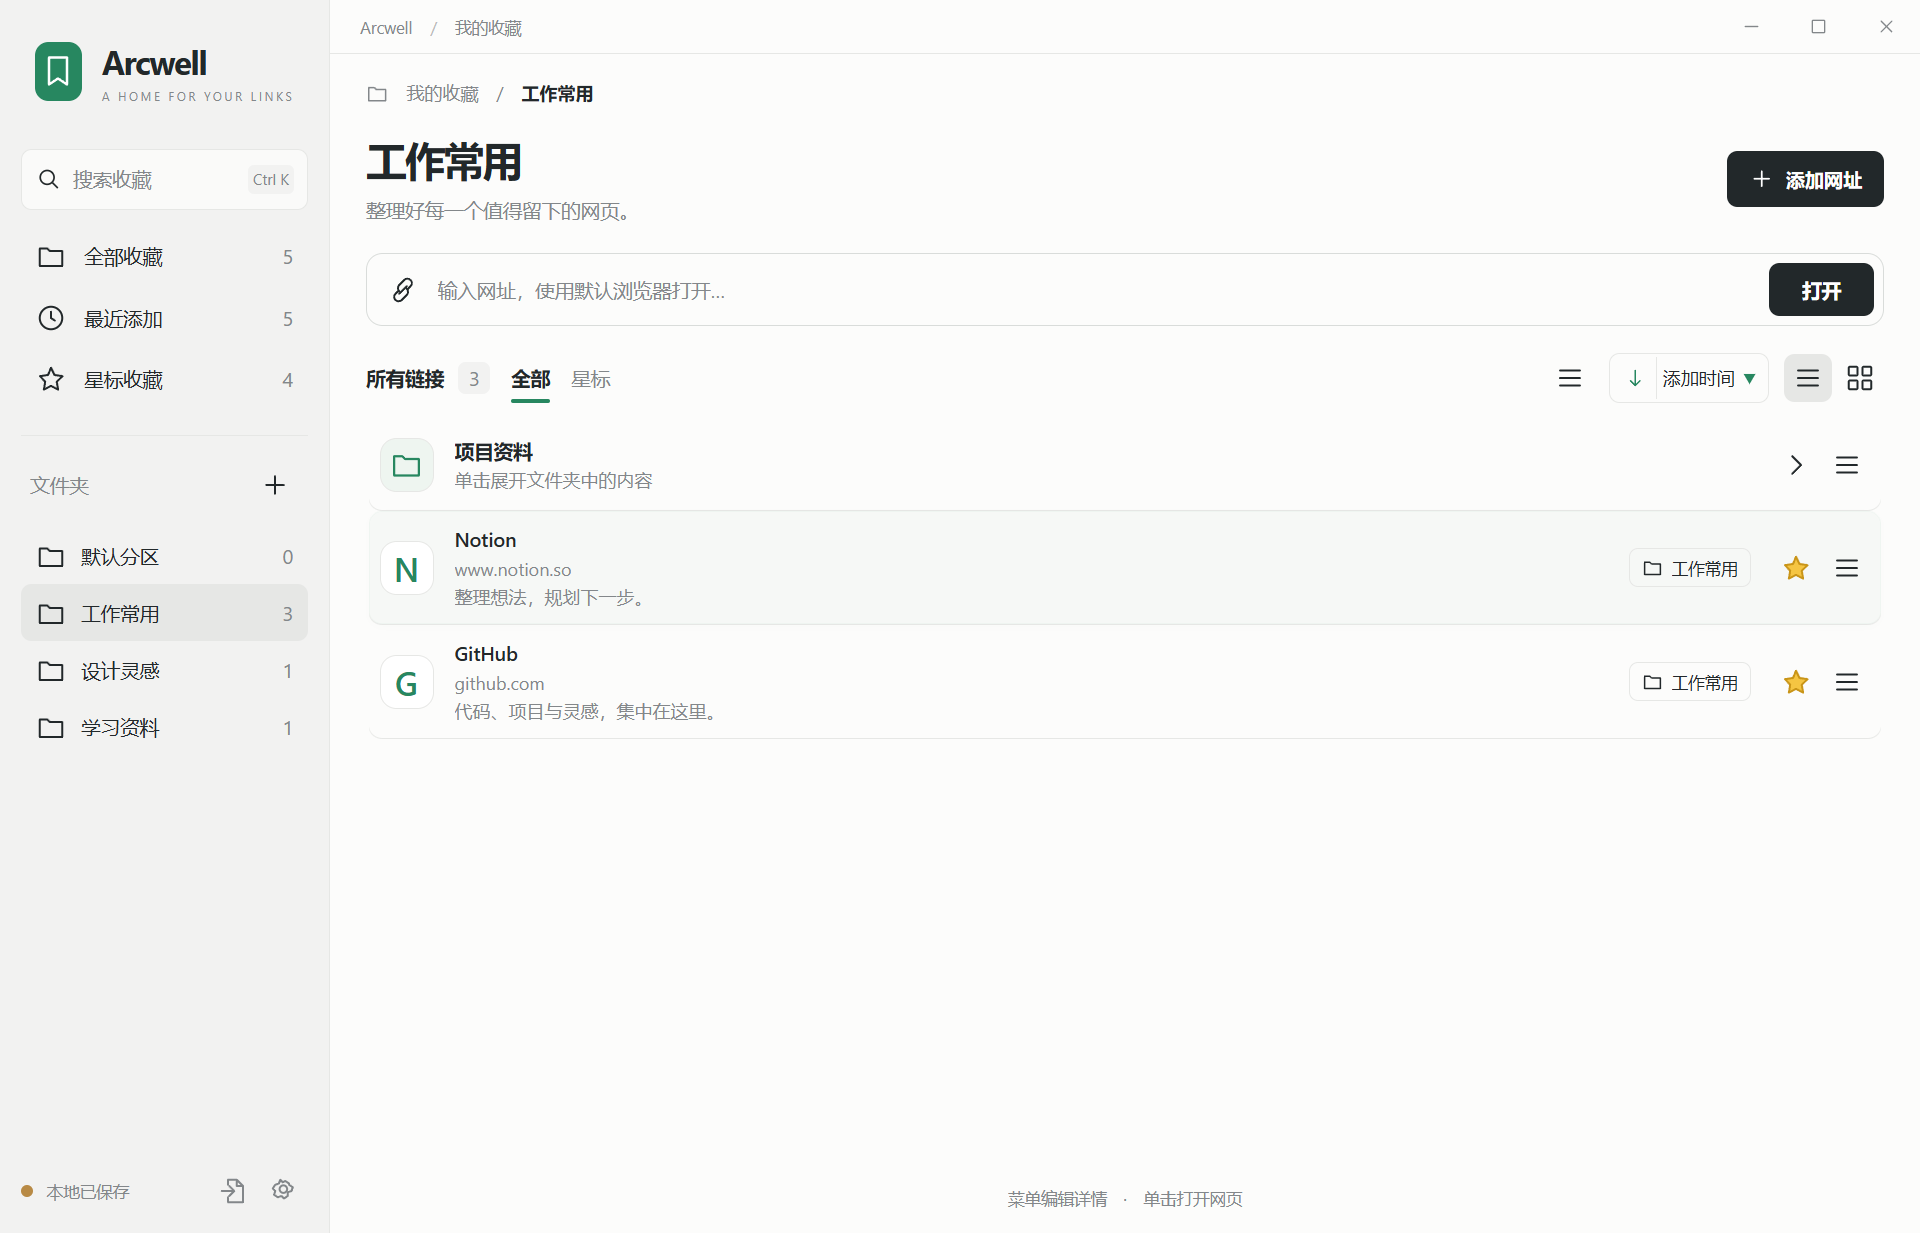
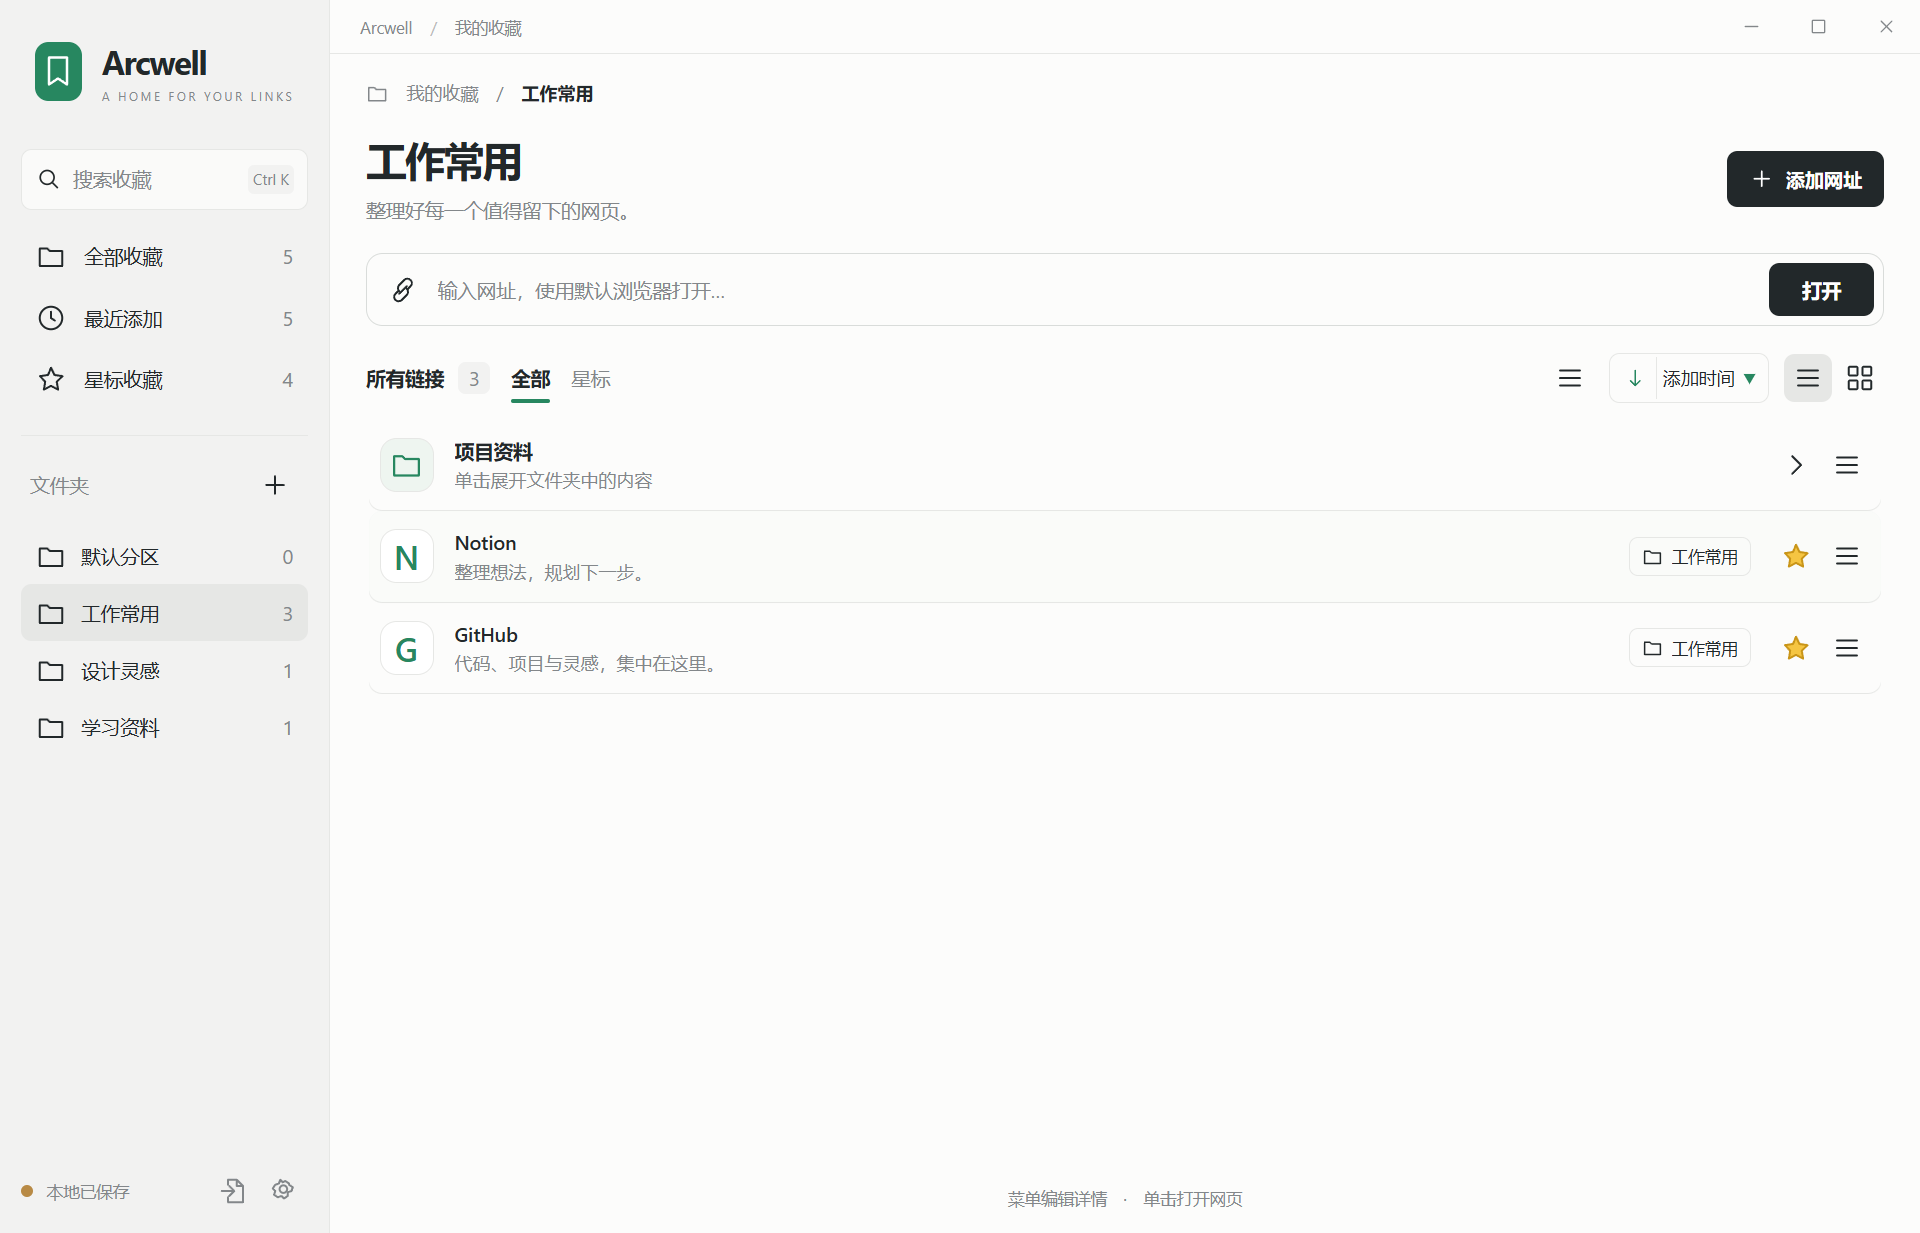
Match link card density to folders and share metadata hover hints

Changed region(s): [[0.1875, 0.4315, 0.375, 0.5856], [0.875, 0.5239, 0.9688, 0.5547], [0.875, 0.4315, 0.9688, 0.4623]]

diff --git a/src/ui/app.js b/src/ui/app.js
@@ -336,6 +336,8 @@ function bookmarkRow(bookmark) {
     `collection-row bookmark-row ${state.selected === bookmark.id ? 'selected' : ''}`,
   );
   row.dataset.id = bookmark.id;
+  row.dataset.collectionHint = bookmark.url;
+  row.setAttribute('aria-description', bookmark.url);
   row.tabIndex = 0;
   row.setAttribute('aria-label', `${bookmark.title}，单击打开网页，菜单编辑详情`);
   row.onclick = (event) => {
@@ -354,7 +356,7 @@ function bookmarkRow(bookmark) {
   row.append(siteIcon(bookmark));
   const copy = element('div', 'bookmark-copy');
   const title = button(bookmark.title, null, 'bookmark-title');
-  title.title = '单击使用默认浏览器打开，通过菜单编辑详情';
+  title.setAttribute('aria-description', bookmark.url);
   title.innerHTML = '';
   title.append(element('span', '', bookmark.title));
   title.onclick = (event) => {
@@ -363,7 +365,6 @@ function bookmarkRow(bookmark) {
   };
   copy.append(
     title,
-    element('span', 'bookmark-domain', new URL(bookmark.url).hostname),
     element('p', 'bookmark-note', bookmark.note || '通过菜单编辑详情，添加你的备注'),
   );
   row.append(copy);
@@ -389,8 +390,8 @@ function bookmarkRow(bookmark) {
   return row;
 }
 // One hint serves the whole collection; rerenders cannot leave per-card timers behind.
-const folderHint = (() => {
-  const hint = $('folder-hint');
+const collectionHint = (() => {
+  const hint = $('collection-hint');
   const list = $('bookmark-list');
   let card = null;
   let timer;
@@ -412,7 +413,7 @@ const folderHint = (() => {
     if (event.pointerType !== 'mouse') return;
     x = event.clientX;
     y = event.clientY;
-    const candidate = event.target.closest('.folder-card');
+    const candidate = event.target.closest('.collection-row');
     if (!candidate || event.target.closest('.icon-button')) return hide();
     if (card === candidate) {
       if (!hint.hidden) position();
@@ -424,8 +425,8 @@ const folderHint = (() => {
       if (!card?.isConnected || $('modal').open || !$('context-menu').hidden) return hide();
       const name = card.querySelector('.folder-title > span');
       hint.textContent =
-        (name.scrollWidth > name.clientWidth ? name.textContent + '\n' : '') +
-        card.dataset.folderSummary;
+        (name && name.scrollWidth > name.clientWidth ? name.textContent + '\n' : '') +
+        card.dataset.collectionHint;
       hint.hidden = false;
       position();
     }, 400);
@@ -454,7 +455,7 @@ function folderGroup(entry, view, depth = 0) {
   const childCount = view.children(folder.id).folders.length;
   const count = view.counts.get(folder.id) || 0;
   const summary = childCount + ' 个文件夹 · ' + count + ' 个链接';
-  heading.dataset.folderSummary = summary;
+  heading.dataset.collectionHint = summary;
   heading.setAttribute('aria-description', summary);
   title.setAttribute('aria-description', summary);
   copy.append(title, element('p', 'bookmark-note', '单击展开，查看下一级内容'));
@@ -543,7 +544,7 @@ function appendCollection(container, items, view, depth = 0) {
     );
 }
 function renderList(view = currentCollection()) {
-  folderHint.hide();
+  collectionHint.hide();
   const list = $('bookmark-list');
   const scrollTop = list.scrollTop;
   list.classList.toggle('grid', state.view === 'grid');

diff --git a/src/ui/styles.css b/src/ui/styles.css
@@ -19,8 +19,8 @@
   --row-ease: cubic-bezier(0.2, 0.7, 0.2, 1);
   --folder-inset: #fff9f1;
   --folder-inset-line: #ead9c3;
-  /* Two-line folder cards occupy 80% of the previous 76px list row. */
-  --folder-row-height: 61px;
+  /* Two-line collection cards occupy 80% of the previous 76px list row. */
+  --collection-row-height: 61px;
   /* Inspector spacing scales with window height, reserving breathing room below. */
   --detail-gap: 10px;
   --profile-cover-height: 48px;
@@ -556,6 +556,7 @@ main {
   gap: 14px;
   border-bottom: 1px solid var(--line);
   padding: 10px 7px;
+  min-height: var(--collection-row-height);
   position: relative;
 }
 .collection-row.selected {
@@ -600,22 +601,13 @@ main {
   text-overflow: ellipsis;
   white-space: nowrap;
 }
-.bookmark-domain {
-  display: block;
-  color: var(--muted);
-  font-size: var(--caption);
-  margin: 3px 0;
-  overflow: hidden;
-  text-overflow: ellipsis;
-  white-space: nowrap;
-}
 .bookmark-note {
   font-size: var(--caption);
   color: var(--muted);
   white-space: nowrap;
   text-overflow: ellipsis;
   overflow: hidden;
-  margin: 0;
+  margin: 3px 0 0;
   min-height: 16px;
 }
 .folder-chip {
@@ -892,8 +884,8 @@ main {
   border-radius: 11px;
   flex-wrap: wrap;
   align-items: flex-start;
-  padding: 15px;
-  gap: 11px;
+  padding: 12px;
+  gap: 8px;
 }
 .grid .bookmark-copy {
   flex-basis: calc(100% - 65px);
@@ -1239,12 +1231,6 @@ select option:focus-visible {
 .folder-group {
   min-width: 0;
 }
-.folder-card {
-  min-height: var(--folder-row-height);
-}
-.folder-card .bookmark-note {
-  margin-top: 3px;
-}
 .folder-icon {
   background: var(--selection);
 }
@@ -1293,7 +1279,7 @@ select option:focus-visible {
 :where(.folder-contents > .folder-group) > .folder-card {
   background-color: var(--canvas);
 }
-.folder-hint {
+.collection-hint {
   position: fixed;
   z-index: 80;
   pointer-events: none;
@@ -1307,6 +1293,10 @@ select option:focus-visible {
   line-height: 1.45;
   white-space: pre-line;
   overflow-wrap: anywhere;
+  display: -webkit-box;
+  -webkit-box-orient: vertical;
+  -webkit-line-clamp: 4;
+  overflow: hidden;
   box-shadow: 0 3px 12px #49351b0c;
 }
 .folder-group.expanding > .folder-reveal > .folder-clip > .folder-contents {

diff --git a/src/ui/index.html b/src/ui/index.html
@@ -142,7 +142,7 @@
     </dialog>
     <div id="context-menu" class="context-menu" hidden></div>
     <div id="toast" role="status" class="toast" hidden></div>
-    <div id="folder-hint" class="folder-hint" role="tooltip" hidden></div>
+    <div id="collection-hint" class="collection-hint" role="tooltip" hidden></div>
     <script src="../folders.js"></script>
     <script src="../collection-view.js"></script>
     <script src="app.js"></script>

diff --git a/README.md b/README.md
@@ -3,11 +3,11 @@
 <p align="center"><img src="assets/icon.svg" width="64" alt="Arcwell" /></p>
 <p align="center"><strong>A quiet home for your bookmarks.</strong><br />把常用网站、工作资料和灵感网页，整理成自己的桌面收藏库。</p>
 <p align="center">
-<a href="https://github.com/Tkxyz1122/Arcwell/releases/download/v0.6.2/Arcwell-0.6.2-Setup.exe"><img src="docs/images/download-setup.svg?v=compact" alt="下载安装版" /></a>
+<a href="https://github.com/Tkxyz1122/Arcwell/releases/download/v0.6.3/Arcwell-0.6.3-Setup.exe"><img src="docs/images/download-setup.svg?v=compact" alt="下载安装版" /></a>
 &nbsp;
-<a href="https://github.com/Tkxyz1122/Arcwell/releases/download/v0.6.2/Arcwell-0.6.2-Portable.zip"><img src="docs/images/download-portable.svg?v=compact" alt="下载便携版 ZIP" /></a>
+<a href="https://github.com/Tkxyz1122/Arcwell/releases/download/v0.6.3/Arcwell-0.6.3-Portable.zip"><img src="docs/images/download-portable.svg?v=compact" alt="下载便携版 ZIP" /></a>
 </p>
-<p align="center">Windows 11 · x64 · 当前版本 0.6.2</p>
+<p align="center">Windows 11 · x64 · 当前版本 0.6.3</p>
 
 ## Arcwell 是什么
 
@@ -38,7 +38,7 @@ Arcwell 是一款本地优先的 Windows 桌面网页收藏管理工具。你可
 
 ### 安装版（推荐）
 
-[下载安装程序 · Arcwell 0.6.2 Setup.exe](https://github.com/Tkxyz1122/Arcwell/releases/download/v0.6.2/Arcwell-0.6.2-Setup.exe)
+[下载安装程序 · Arcwell 0.6.3 Setup.exe](https://github.com/Tkxyz1122/Arcwell/releases/download/v0.6.3/Arcwell-0.6.3-Setup.exe)
 
 下载的是 **EXE 安装程序，无需手动解压**。双击后按向导选择位置并完成安装。程序会放入独立的 Arcwell 文件夹，避免文件散落在目标目录。
 
@@ -46,7 +46,7 @@ Arcwell 是一款本地优先的 Windows 桌面网页收藏管理工具。你可
 
 ### 便携版（可选）
 
-[下载便携版 · Arcwell 0.6.2 Portable.zip](https://github.com/Tkxyz1122/Arcwell/releases/download/v0.6.2/Arcwell-0.6.2-Portable.zip)
+[下载便携版 · Arcwell 0.6.3 Portable.zip](https://github.com/Tkxyz1122/Arcwell/releases/download/v0.6.3/Arcwell-0.6.3-Portable.zip)
 
 解压后打开其中的 **Arcwell** 文件夹，双击 **Arcwell.exe**。请保留完整文件夹，移动程序时一起移动。
 
@@ -62,7 +62,7 @@ Arcwell 是一款本地优先的 Windows 桌面网页收藏管理工具。你可
 4. **补充信息**：点击收藏右侧三横线菜单或右键菜单，选择“编辑详情”，修改名称、网址、所属文件夹和备注，完成后保存。
 5. **设置第二份备份**：点击左下角齿轮，在“自动 HTML 备份”中选择自定义备份目录。
 
-左栏只显示最外层目录和默认分区。中央列表中，当前层级的文件夹始终排在链接前面；展开后先显示它的子文件夹，再显示直属链接。文件夹与链接共用卡片布局，文件夹卡片高度较上一版缩小约 20%，文件夹 / 链接数量改为鼠标停留后的轻量提示；展开区用偏白的浅杏色背景、层级边线和轻微缩进区分归属。列表和网格视图均支持嵌套展开，默认浏览时不会把子目录的链接重复铺到外层。
+左栏只显示最外层目录和默认分区。中央列表中，当前层级的文件夹始终排在链接前面；展开后先显示它的子文件夹，再显示直属链接。文件夹与链接共用卡片布局，文件夹与链接卡片均使用紧凑的两行布局，列表高度约为原来的 80%；文件夹数量和链接的详细网址统一改为鼠标停留后的轻量提示；展开区用偏白的浅杏色背景、层级边线和轻微缩进区分归属。列表和网格视图均支持嵌套展开，默认浏览时不会把子目录的链接重复铺到外层。
 
 单击文件夹卡片、标题或展开箭头均可展开 / 收起；键盘可用 Enter、空格及卡片上的左右方向键操作。展开带柔和回弹，系统启用“减少动态效果”时会自动减少动画。文件夹菜单支持在当前目录添加网址、新建子目录、重命名与移除。
 
@@ -136,7 +136,7 @@ Arcwell 在保存收藏修改后，同步更新两份固定名称的 **网址备
 
 首次从旧版升级，或无法使用应用内更新时，可手动下载更新程序：
 
-[下载 Arcwell 0.6.2 更新程序 · Update.exe](https://github.com/Tkxyz1122/Arcwell/releases/download/v0.6.2/Arcwell-0.6.2-Update.exe)
+[下载 Arcwell 0.6.3 更新程序 · Update.exe](https://github.com/Tkxyz1122/Arcwell/releases/download/v0.6.3/Arcwell-0.6.3-Update.exe)
 
 先保存正在编辑的内容，再运行更新程序。程序会自动使用原安装位置，后台更新后重新打开 Arcwell 并显示结果，**无需先卸载旧版或重新选择目录**。便携版可将更新程序放到 Arcwell.exe 所在文件夹后运行。找不到原程序时会停止，不向新的默认位置安装。后续可继续通过应用内“检查更新”更新。
 
@@ -184,7 +184,7 @@ npm run build
 
 技术栈为 Electron、原生 HTML / CSS / JavaScript、htmlparser2 与 electron-builder。渲染器使用沙箱，文件保存、导入、备份、默认浏览器调用与更新下载由主进程负责。代码按界面、业务规则、存储、备份、图标和更新模块拆分。
 
-`npm run build` 生成安装程序、更新程序及便携 ZIP，产物位于 `release/0.6.2`。更详细的开发结构、数据恢复和发布流程见：
+`npm run build` 生成安装程序、更新程序及便携 ZIP，产物位于 `release/0.6.3`。更详细的开发结构、数据恢复和发布流程见：
 
 - [开发与数据说明](docs/DEVELOPMENT.md)
 - [更新与发布](docs/UPDATING.md)

diff --git a/docs/release-notes.md b/docs/release-notes.md
@@ -1,5 +1,5 @@
 <p>
-<a href="https://github.com/Tkxyz1122/Arcwell/releases/download/v0.6.2/Arcwell-0.6.2-Setup.exe">下载安装版</a> · <a href="https://github.com/Tkxyz1122/Arcwell/releases/download/v0.6.2/Arcwell-0.6.2-Portable.zip">下载便携版 ZIP</a>
+<a href="https://github.com/Tkxyz1122/Arcwell/releases/download/v0.6.3/Arcwell-0.6.3-Setup.exe">下载安装版</a> · <a href="https://github.com/Tkxyz1122/Arcwell/releases/download/v0.6.3/Arcwell-0.6.3-Portable.zip">下载便携版 ZIP</a>
 </p>
 
 **安装版**：运行安装程序，按向导完成安装。
@@ -8,7 +8,9 @@
 
 **检查更新**：应用左下角齿轮 → 应用更新 → 检查更新，在应用内下载并安装后续版本。
 
-**手动更新（备用）**：[下载更新程序](https://github.com/Tkxyz1122/Arcwell/releases/download/v0.6.2/Arcwell-0.6.2-Update.exe)，自动使用原安装目录，后台更新，无需卸载。
+**手动更新（备用）**：[下载更新程序](https://github.com/Tkxyz1122/Arcwell/releases/download/v0.6.3/Arcwell-0.6.3-Update.exe)，自动使用原安装目录，后台更新，无需卸载。
+
+链接卡片也缩小至原高度约80%，列表中与文件夹统一为61px的两行布局。卡片中的网址行改为鼠标停留时显示的轻量提示，与文件夹数量提示使用同一套样式。网格同步紧凑，长网址提示最多四行。
 
 首次启动创建新数据目录时，默认分区会放入一个 bilibili 示例链接。已有用户更新后不会被加入，删除后也不会重新出现。悬停与选中效果改为柔和底色、细边框和平滑过渡，去掉原来的粗绿色侧线。
 

diff --git a/docs/DEVELOPMENT.md b/docs/DEVELOPMENT.md
@@ -36,7 +36,7 @@ npm run format:check
 npm run build
 ```
 
-产物位于 `release/0.6.2`：Setup.exe 是安装向导，Portable.zip 是可选的便携版；Update.exe 供应用内更新及手动更新备用。便携运行需保留完整 Arcwell 文件夹。依赖由 npm ci 根据锁文件恢复。
+产物位于 `release/0.6.3`：Setup.exe 是安装向导，Portable.zip 是可选的便携版；Update.exe 供应用内更新及手动更新备用。便携运行需保留完整 Arcwell 文件夹。依赖由 npm ci 根据锁文件恢复。
 
 界面测试：`npm run test:first-run`（首次示例、删除与重启、选中和悬停、减少动态效果）、`npm run test:hierarchy`（根目录导航、列表内逐层展开、动画与减弱动画、键盘和层级归属）、`npm run test:sorting`（双向排序、最新30条范围、资料卡与留白）、`npm run test:ui`、`npm run test:import`、`node scripts/release-ui-test.cjs`，均使用隔离数据。原生更新器测试需指定只读旧版基线，见 [更新与发布](UPDATING.md)。
 

diff --git a/CHANGELOG.md b/CHANGELOG.md
@@ -1,5 +1,11 @@
 # 更新记录
 
+## 0.6.3 · 2026-11-03
+
+- 链接卡片也压缩至原高度的约80%，列表中与文件夹统一为61px的紧凑布局。
+- 详细网址移到鼠标旁的小型悬浮提示，复用文件夹数量提示的样式和行为。
+- 网格视图同步收紧间距，长网址提示最多四行，避免遮挡大块内容；网址原值与编辑不变。
+
 ## 0.6.2 · 2026-11-03
 
 - 首次创建全新收藏库时，在默认分区预置 bilibili 示例链接；已有用户更新、移除示例或清空后不会重新加入。
